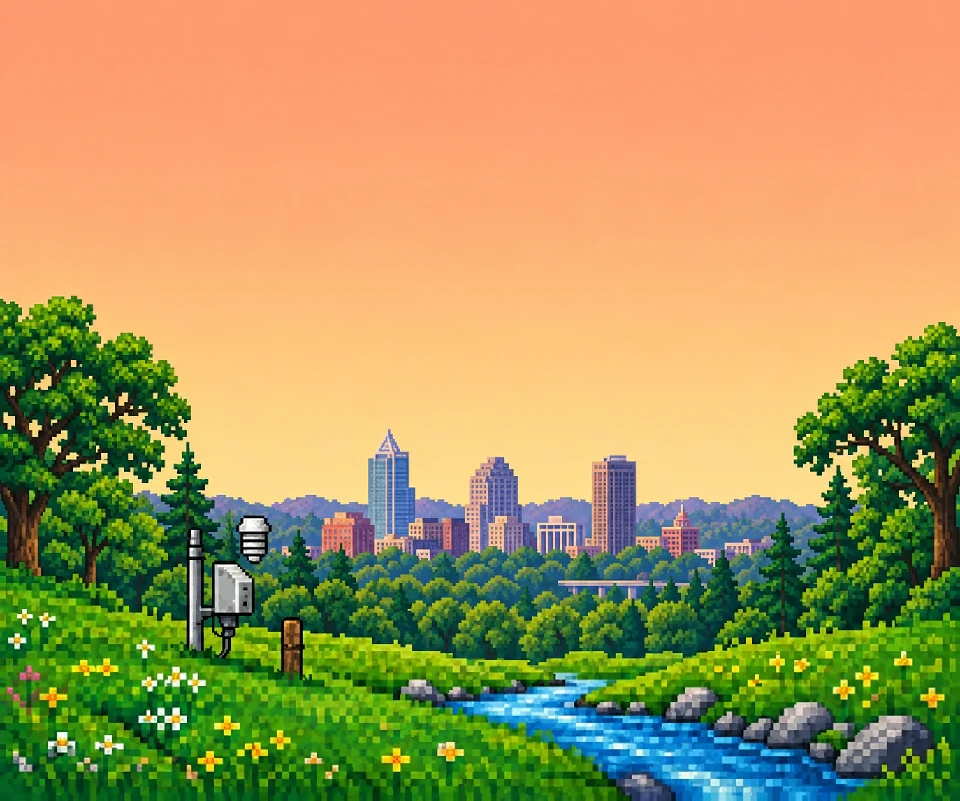
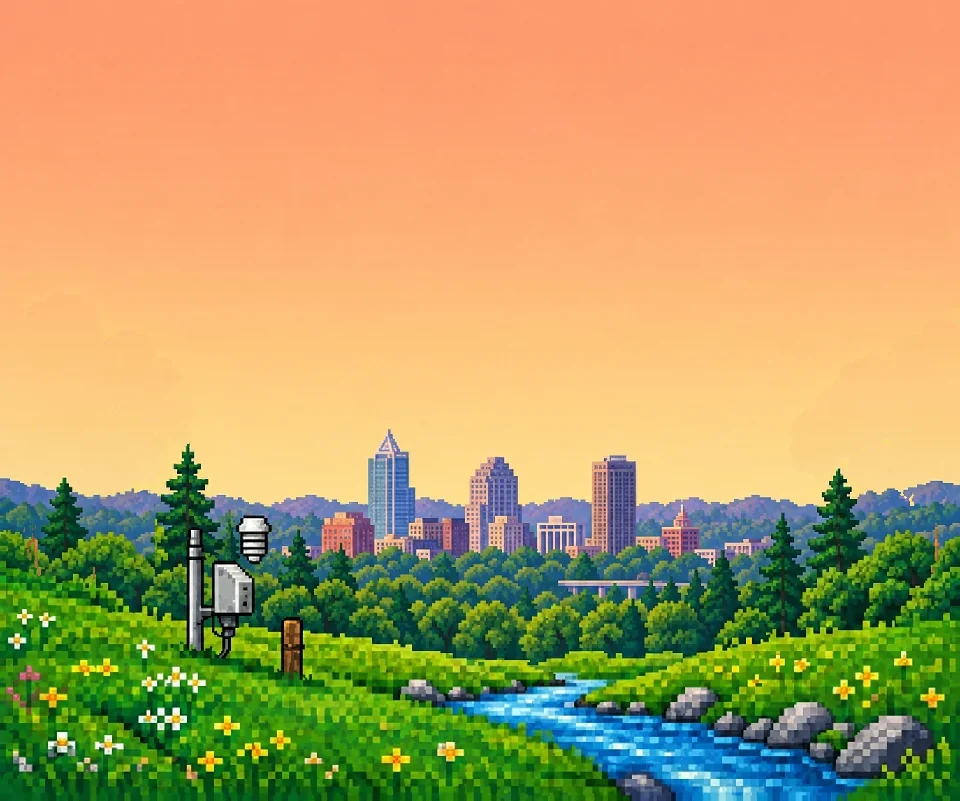
feat: add gently animated Raleigh oak sprites
Separate the original oak artwork into transparent lighting-aware sprites with sparse one-pixel foliage rustles. Bundle offline assets and preserve reduced-motion and native power controls, with browser and native coverage.

Changed region(s): [[0.0, 0.3745, 0.2188, 0.7491], [0.8125, 0.4057, 1.0, 0.7491]]

diff --git a/tests/raleigh-oaks.spec.ts b/tests/raleigh-oaks.spec.ts
@@ -1,0 +1,120 @@
+import { expect, test } from '@playwright/test';
+import type { Page } from '@playwright/test';
+import sharp from 'sharp';
+import { asheville, forecastFixture } from '../src/test/fixtures';
+
+const assets = ['left', 'right'].flatMap(side => ['day', 'overcast', 'night'].map(light => `/art/raleigh-oaks/oak-${side}-${light}.webp`));
+async function open(page: Page, code = 0, night = false) {
+  const now = Date.parse(night ? '2026-09-11T06:00:00Z' : '2026-09-11T18:00:00Z');
+  await page.clock.setFixedTime(now);
+  await page.emulateMedia({ reducedMotion: 'no-preference' });
+  await page.addInitScript(() => {
+    const place = { id: 'raleigh', name: 'Raleigh', region: 'North Carolina', country: 'United States', latitude: 35.7796, longitude: -78.6382, source: 'search' };
+    localStorage.setItem('8bit-weather:v1', JSON.stringify({ selected: place, places: [place], preferences: { units: 'imperial', reducedMotion: false } }));
+  });
+  await page.route('https://api.open-meteo.com/**', route => route.fulfill({ json: forecastFixture(now, code, night ? 0 : 1) }));
+  await page.route('**/api/weather-briefing', route => route.fulfill({ status: 503, json: { code: 'unavailable' } }));
+  await page.goto('/');
+  await expect(page.locator('.scenery')).toHaveAttribute('data-landscape', 'raleigh');
+  await expect(page.getByRole('heading', { name: '7-day forecast' })).toBeVisible();
+  await page.evaluate(async assets => Promise.all(assets.map(src => { const image = new Image(); image.src = src; return image.decode(); })), assets);
+}
+
+test('oak strips have genuine transparency, separate frame poses, and fixed roots', async () => {
+  for (const asset of assets) {
+    const image = sharp(`public${asset}`);
+    const metadata = await image.metadata();
+    expect(metadata.hasAlpha).toBe(true);
+    expect([metadata.width, metadata.height]).toEqual([1920, 320]);
+    const { data, info } = await image.ensureAlpha().raw().toBuffer({ resolveWithObject: true });
+    let transparent = 0, opaque = 0, moving = 0, rootsChanged = 0, rootAlphaChanged = 0;
+    for (let y = 0; y < 320; y++) for (let x = 0; x < 240; x++) {
+      const p = (y * info.width + x) * 4, q = (y * info.width + x + 240 * 2) * 4;
+      if (!data[p + 3]) transparent++; else opaque++;
+      const changed = Math.max(...[0, 1, 2, 3].map(c => Math.abs(data[p + c] - data[q + c]))) > 12;
+      if (changed && (data[p + 3] || data[q + 3])) { if (y < 270) moving++; else rootsChanged++; }
+      if (y >= 270 && data[p + 3] !== data[q + 3]) rootAlphaChanged++;
+    }
+    expect(transparent).toBeGreaterThan(10000); expect(opaque).toBeGreaterThan(10000);
+    expect(moving).toBeGreaterThan(1000);
+    expect(rootAlphaChanged).toBe(0);
+    // Lossy WebP color blocks can vary slightly; root geometry/alpha must remain exact.
+    expect(rootsChanged).toBeLessThan(240 * 50 * .02);
+  }
+});
+
+test('neutral oak masters preserve the original painting colors', async () => {
+  for (const light of ['day', 'overcast', 'night']) {
+    const original = await sharp(`docs/design/raleigh-v1/scene-raleigh-${light}-v1.webp`).removeAlpha().raw().toBuffer();
+    for (const [side, left] of [['left', -8], ['right', 728]] as const) {
+      const master = await sharp(`docs/design/raleigh-oaks-v1/sources/oak-${side}-${light}.png`).raw().toBuffer();
+      let mismatches = 0;
+      for (let y = 0; y < 320; y++) for (let x = 0; x < 240; x++) {
+        const p = (y * 240 + x) * 4;
+        if (!master[p + 3]) continue;
+        const q = ((y + 280) * 960 + left + x) * 3;
+        if ([0, 1, 2].some(c => master[p + c] !== original[q + c])) mismatches++;
+      }
+      expect(mismatches).toBe(0);
+    }
+  }
+});
+
+test('oak sprite frames change in place and respect motion and visibility', async ({ page }) => {
+  await open(page);
+  const errors: string[] = []; page.on('pageerror', error => errors.push(error.message));
+  await page.locator('.landscape').evaluate(n => n.getAnimations({ subtree: true }).forEach(a => { a.pause(); a.currentTime = 4000; }));
+  const oak = page.locator('.oak-left');
+  await oak.locator('.oak-frames').evaluateAll(nodes => nodes.forEach(n => n.getAnimations().forEach(a => { a.currentTime = 0; })));
+  const before = await oak.boundingBox();
+  // An edge tree is intentionally clipped. Locator screenshots auto-scroll its
+  // overflow container in Chromium; capture its visible viewport intersection instead.
+  const clip = { x: Math.max(0, before!.x), y: before!.y, width: before!.width + Math.min(0, before!.x), height: before!.height };
+  const first = await page.screenshot({ clip, animations: 'allow', scale: 'css' });
+  await oak.locator('.oak-frames').evaluateAll(nodes => nodes.forEach(n => n.getAnimations().forEach(a => { a.currentTime = Number(a.effect!.getTiming().duration) / 4; })));
+  const second = await page.screenshot({ clip, animations: 'allow', scale: 'css' });
+  expect(before).toEqual(await oak.boundingBox());
+  expect(first.equals(second)).toBe(false);
+  await page.reload();
+  const running = () => page.locator('.raleigh-oaks').evaluate(n => n.getAnimations({ subtree: true }).some(a => a.playState === 'running'));
+  await expect.poll(running).toBe(true);
+  await page.emulateMedia({ reducedMotion: 'reduce' }); await expect.poll(running).toBe(false);
+  await expect(page.locator('.oak-left .oak-frames').first()).toHaveCSS('background-position', '0px 0px');
+  await page.emulateMedia({ reducedMotion: 'no-preference' }); await expect.poll(running).toBe(true);
+  await page.evaluate(() => { Object.defineProperty(document, 'hidden', { configurable: true, value: true }); document.dispatchEvent(new Event('visibilitychange')); });
+  await expect.poll(running).toBe(false);
+  await page.evaluate(() => { Object.defineProperty(document, 'hidden', { configurable: true, value: false }); document.dispatchEvent(new Event('visibilitychange')); });
+  await expect.poll(running).toBe(true);
+  await page.setViewportSize({ width: 390, height: 400 });
+  await page.evaluate(() => window.scrollTo(0, document.body.scrollHeight));
+  await expect.poll(running).toBe(false);
+  expect(errors).toEqual([]);
+});
+
+for (const [light, code, night] of [['day', 0, false], ['overcast', 3, false], ['night', 0, true]] as const) {
+  test(`oak ${light} lighting stays registered at mobile and desktop sizes`, async ({ page, browserName }) => {
+    await open(page, code, night);
+    await expect(page.locator(`[data-oak-light='${light}']`).first()).toHaveCSS('opacity', '1');
+    for (const width of [320, 390, 430, 1280]) {
+      await page.setViewportSize({ width, height: 844 });
+      await expect(page.locator('.current-temperature')).toBeVisible();
+      await page.getByRole('button', { name: 'Blink the weather station light' }).click();
+      await expect(page.locator('.indicator-active')).toBeVisible();
+      expect(await page.evaluate(() => document.documentElement.scrollWidth <= innerWidth)).toBe(true);
+      await page.locator('.scenery').screenshot({ path: `/tmp/raleigh-oaks/${browserName}-${light}-${width}.png`, animations: 'allow', scale: 'css' });
+    }
+  });
+}
+
+test('oak assets work offline and do not appear in another region', async ({ page, context, browserName }) => {
+  test.skip(browserName !== 'chromium', 'Service-worker lifecycle is checked in Chromium.');
+  await open(page);
+  await page.evaluate(async () => { await navigator.serviceWorker.ready; });
+  await expect.poll(() => page.evaluate(async assets => (await Promise.all(assets.map(a => caches.match(a, { ignoreSearch: true })))).every(Boolean), assets)).toBe(true);
+  await context.setOffline(true); await page.reload();
+  expect(await page.evaluate(async assets => (await Promise.all(assets.map(async a => (await fetch(a)).ok))).every(Boolean), assets)).toBe(true);
+  await context.setOffline(false);
+  await page.addInitScript(place => localStorage.setItem('8bit-weather:v1', JSON.stringify({ selected: place, places: [place], preferences: { units: 'imperial' } })), asheville);
+  await page.reload(); await expect(page.locator('.scenery')).toHaveAttribute('data-landscape', 'blue-ridge');
+  await expect(page.locator('.raleigh-oaks')).toHaveCount(0);
+});

diff --git a/src/styles.css b/src/styles.css
@@ -196,6 +196,13 @@
   .river-discovery .inner-ring { opacity: .7; }
   .meadow-bird { opacity: 0; animation: bird-visit 42s steps(36, end) infinite; }
   .meadow-firefly { animation: firefly-drift 9s steps(15, end) infinite; }
+  .raleigh-oaks { position: absolute; inset: 0; pointer-events: none; }
+  .raleigh-oak { position: absolute; top: 280px; width: 240px; height: 320px; }
+  .oak-left { left: -8px; }
+  .oak-right { left: 728px; }
+  .oak-light { position: absolute; inset: 0; transition: opacity 1.8s ease; }
+  .oak-frames { width: 240px; height: 320px; background-size: 1920px 320px; background-repeat: no-repeat; image-rendering: pixelated; animation: oak-frames var(--oak-duration) steps(8, end) infinite; }
+  .oak-right .oak-frames { animation-delay: -.9s; }
   .raleigh-wildlife { position: absolute; inset: 0; pointer-events: none; filter: brightness(var(--wildlife-brightness)) saturate(var(--wildlife-saturation)); }
   .raleigh-bird-flight, .raleigh-resting-bird { position: absolute; width: 48px; height: 48px; }
   .raleigh-cardinal { --bird-image: url('/art/raleigh-wildlife/cardinal.png'); }
@@ -460,6 +467,7 @@
   @keyframes station-blink { 0%, 40%, 80% { opacity: 1; } 20%, 60% { opacity: .25; } }
   @keyframes bird-visit { 0%, 72% { opacity: 0; transform: translate(-24px, 3px); } 76% { opacity: .85; } 88% { transform: translate(60px, -18px); } 96%, 100% { opacity: 0; transform: translate(160px, -25px); } }
   @keyframes firefly-drift { 0%, 100% { transform: translate(0, 0); opacity: .25; } 35% { opacity: .9; } 60% { transform: translate(12px, -16px); opacity: .65; } }
+  @keyframes oak-frames { to { background-position-x: -1920px; } }
   /* Original sheets: birds have four 16px flying cells in row zero; leaves have five. */
   @keyframes raleigh-wing-frames { to { background-position-x: -192px; } }
   @keyframes raleigh-leaf-frames { to { background-position-x: -160px; } }
@@ -481,6 +489,8 @@
   [data-animate='false'] .art-layer, [data-animate='false'] .twilight-light { transition: none; }
   [data-animate='false'] .raleigh-bird-flight, [data-animate='false'] .raleigh-leaves { display: none; }
   [data-animate='false'] .raleigh-resting-bird { display: block; }
+  [data-animate='false'] .oak-light { transition: none; }
+  [data-animate='false'] .oak-frames, [data-calm='true'] .oak-frames { animation: none; background-position: 0 0; }
   [data-animate='false'] .river-discovery { transform: scale(1); opacity: .8; animation: none; }
   [data-animate='false'] .indicator-active { opacity: 1; animation: none; }
   .motion-reduced .meadow-bird { opacity: .75; }

diff --git a/native-tests/raleigh-wildlife.spec.ts b/native-tests/raleigh-wildlife.spec.ts
@@ -14,6 +14,8 @@ test('Raleigh sprites use the native power and lifecycle signals and bundled art
   await expect(page.locator('.scenery')).toHaveAttribute('data-landscape', 'raleigh');
   await expect(page.locator('.raleigh-resting-bird')).toBeVisible();
   await expect(page.locator('.raleigh-leaves')).toBeHidden();
+  await expect(page.locator('.oak-frames')).toHaveCount(6);
+  expect(await page.locator('.raleigh-oaks').evaluate(n => n.getAnimations({ subtree: true }).some(a => a.playState === 'running'))).toBe(false);
   expect(await page.locator('.raleigh-wildlife').evaluate(n => n.getAnimations({ subtree: true }).some(a => a.playState === 'running'))).toBe(false);
   expect(await page.evaluate(async () => {
     await Promise.all(['cardinal.png', 'blue-jay.png', 'leaves.png'].map(name => { const image = new Image(); image.src = `/art/raleigh-wildlife/${name}`; return image.decode(); }));
@@ -21,7 +23,7 @@ test('Raleigh sprites use the native power and lifecycle signals and bundled art
   })).toBe(true);
   bridge.control.lowPowerMode = false;
   await page.evaluate(() => window.__emitNative('powerStateChanged', { lowPowerMode: false, thermalState: 'nominal' }));
-  const moving = () => page.locator('.raleigh-wildlife').evaluate(n => n.getAnimations({ subtree: true }).some(a => a.playState === 'running'));
+  const moving = () => page.locator('.raleigh-wildlife,.raleigh-oaks').evaluateAll(nodes => nodes.every(n => n.getAnimations({ subtree: true }).some(a => a.playState === 'running')));
   await expect.poll(moving).toBe(true);
   await page.evaluate(() => window.__emitNative('appStateChange', { isActive: false }));
   await expect.poll(moving).toBe(false);

diff --git a/src/components/Scenery.tsx b/src/components/Scenery.tsx
@@ -9,6 +9,7 @@ import type { Landscape } from '../lib/landscapes';
 import { Stream } from './Stream';
 import { OceanSurface } from './OceanSurface';
 import { RaleighWildlife } from './RaleighWildlife';
+import { RaleighOaks } from './RaleighOaks';
 
 // All station coordinates are authored in the landscape's 960-pixel-wide grid.
 // Discrete sprite frames keep the cups upright as they circle the fixed mast.
@@ -98,6 +99,7 @@ export function Scenery({ scene, animate, onDiscover, children, className = '', 
       {(['day', 'overcast', 'night'] as const).map(art => <img key={art} className={`art-layer ${art === 'day' ? 'landscape-art' : ''}`} data-art={art}
         src={landscapeSource(landscape, art)} alt="" width={ART.width} height={ART.height} fetchPriority={art === 'day' ? 'high' : 'auto'} draggable="false"
         style={{ opacity: art === 'night' ? 1 - scene.daylight : art === 'overcast' ? wet ? 1 : 0 : 1 }} />)}
+      {landscape === 'raleigh' ? <RaleighOaks scene={scene} /> : null}
       <div className="twilight-light" />
       <svg className="landscape-details" viewBox={`0 0 ${ART.width} ${ART.height}`} shapeRendering="crispEdges">
         {definition.water.kind === 'surf' ? <OceanSurface scene={scene} discoveryId={waterDiscovery}/>

diff --git a/tests/regions.spec.ts b/tests/regions.spec.ts
@@ -66,6 +66,12 @@ for (const id of ids) {
         await page.locator('.scenery').screenshot({ path: `/tmp/8bit-weather-regions/${browserName}-${id}-${light}-${width}.png`, animations: 'allow' });
       }
       await page.setViewportSize({ width: 390, height: 844 });
+      // The weather typography now transitions on resize. Finish those finite
+      // transitions before comparing water pixels in the composited scene crop.
+      await page.locator('.scene-content').evaluate(async node => {
+        await new Promise<void>(resolve => requestAnimationFrame(() => requestAnimationFrame(() => resolve())));
+        await Promise.all(node.getAnimations({ subtree: true }).filter(a => a instanceof CSSTransition).map(a => a.finished.catch(() => {})));
+      });
       await page.evaluate(() => document.querySelector('.landscape')!.getAnimations({ subtree: true }).forEach(animation => animation.pause()));
       const phase = (time: number) => page.evaluate(time => document.querySelectorAll('.stream-current,.stream-eddy,.surf-wave,.surf-shimmer').forEach(node => node.getAnimations().forEach(animation => { animation.currentTime = time; })), time);
       await phase(400);

diff --git a/src/components/RaleighOaks.tsx b/src/components/RaleighOaks.tsx
@@ -1,0 +1,16 @@
+import type { CSSProperties } from 'react';
+import type { SceneState } from '../types';
+
+const lights = ['day', 'overcast', 'night'] as const;
+
+export function RaleighOaks({ scene }: { scene: SceneState }) {
+  const overcast = ['cloudy', 'fog', 'rain', 'snow', 'storm'].includes(scene.kind);
+  return <div className="raleigh-oaks" aria-hidden="true" style={{ '--oak-duration': `${8 - scene.windStrength * 2}s` } as CSSProperties}>
+    {(['left', 'right'] as const).map(side => <div className={`raleigh-oak oak-${side}`} key={side}>
+      {lights.map(light => <div className="oak-light" data-oak-light={light} key={light}
+        style={{ opacity: light === 'night' ? 1 - scene.daylight : light === 'overcast' ? Number(overcast) : 1 }}>
+        <div className="oak-frames" style={{ backgroundImage: `url('/art/raleigh-oaks/oak-${side}-${light}.webp')` }} />
+      </div>)}
+    </div>)}
+  </div>;
+}

diff --git a/docs/design/raleigh-oaks-v1/prompts.md b/docs/design/raleigh-oaks-v1/prompts.md
@@ -1,0 +1,32 @@
+# Raleigh oak artwork prompts
+
+Built-in Imagegen; no API-key or CLI image generation was used.
+
+## Tree extraction
+
+Use case: background-extraction.
+Asset type: an actual transparent PNG sprite layer for the existing Raleigh pixel-art weather scene.
+Edit target: the supplied 960x801 landscape.
+Extract ONLY the two large foreground oak trees at the far left and far right, including their leafy crowns, branches and trunks. Preserve the trees' exact original screen positions, scale, silhouettes, detailed crisp square-pixel texture and warm daylight colors. Keep the same 6:5 canvas/aspect and framing: left oak canopy begins around y=295, its trunk ends near y=580; right oak canopy begins around y=323 and trunk ends near y=580. These edge trees remain cropped by the outside canvas edges exactly as in the input. This is one transparent sprite atlas containing the separated left and right oak silhouettes in their original layout, NOT a new scene.
+Remove ALL sky, skyline, hills, distant trees, smaller foreground pines, grass, flowers, ground, creek, station, wooden marker and other objects. The full space between and around the two foreground oak silhouettes must be genuine transparent alpha, including gaps between branches and leaves. No ground under roots. Do not fill the alpha with black, white, a gradient, or a drawn checkerboard.
+Do not redraw or redesign the two oak trees. Preserve the source tree appearance as closely as possible. No added trees, no objects, text, labels, outlines, shadows or mockup framing. The output must be the actual transparent game sprite layer, ready to overlay on a separately restored background.
+
+## Alpha retry (returned painted checkerboard; not usable as alpha)
+
+Remove the gray checkerboard from this tree cutout image. Return a PNG with a real transparent alpha channel; all background pixels must have alpha 0. This image currently has a painted checkerboard, which is incorrect. Preserve only the two green pixel-art oak trees with their brown trunks. Preserve every existing tree pixel, position, scale, and canvas dimensions. Make the gaps among branches transparent too. Do not render a transparency checkerboard. Do not replace the background with a visible color. The result must be an actual transparent PNG ready for use as a game sprite.
+
+## Clean daylight background
+
+Use case: precise-object-edit.
+Asset: clean background plate for a layered pixel-art game scene.
+Edit target: the supplied original Raleigh landscape.
+Remove ONLY the two LARGE FOREGROUND OAK TREES at the extreme left and right edges: their large leafy crowns, branches, and thick brown trunks. The left oak occupies approximately x=0..192,y=292..582 on the 960x801 source; the right oak occupies x=790..960,y=322..590. Reconstruct the empty warm sky and distant wooded parkland that would naturally be visible behind those trees. Where a trunk meets the ground, restore the grass behind it.
+Preserve all other artwork, positions, colors, scale, sharp pixel texture and exact 6:5 framing. Do not change any pixels outside the removed oaks' regions. In particular keep the smaller dark pine near the station, all existing smaller midground trees, the Raleigh skyline, meadow flowers, station and bare mast, wooden stake, and ALL creek water, banks and rocks exactly where they are. The upper 35 percent and central 60 percent must remain identical to the source. No new objects. No changes to lighting. No softening, blur, clouds, birds, text, or UI. Output a fully opaque background at the original aspect, edge to edge. This is the empty-background companion to transparent oak sprites that will be composited back into their original places.
+
+## Clean overcast background
+
+Remove ONLY the two large foreground oak trees at the extreme left and right of this overcast Raleigh pixel-art landscape. Remove their crowns, branches and thick trunks and restore pale blue-gray sky, distant forest, small pines and meadow behind them. Left oak region x=0..193,y=295..590 and right oak x=790..960,y=320..590 on the 960x801 canvas. Keep smaller pine by the weather station. Preserve all other objects, exact positions and original cool overcast palette and sharp pixel texture. Preserve station, skyline, flowers and creek geometry exactly. No added objects, text, birds, clouds, change of lighting or camera. Same 6:5 canvas aspect. Fully opaque clean background plate for compositing separate oak sprites back on top.
+
+## Clean night background
+
+Remove ONLY the two large foreground oak trees at the extreme left and right of this nighttime Raleigh pixel-art landscape. Remove their crowns, branches and thick trunks and restore indigo-purple sky, distant forest, small pines and meadow behind them. Left oak region x=0..193,y=295..590 and right oak x=790..960,y=320..590 on the 960x801 canvas. Keep smaller pine by the weather station. Preserve all other objects, exact positions and original dark blue/teal/violet night palette and sharp pixel texture. Preserve station, lit skyline, flowers and creek geometry exactly. No added objects, text, birds, clouds, change of lighting or camera. Same 6:5 canvas aspect. Fully opaque clean background plate for compositing separate oak sprites back on top.

diff --git a/docs/design/raleigh-oaks-v1/README.md b/docs/design/raleigh-oaks-v1/README.md
@@ -1,0 +1,48 @@
+# Raleigh oak sprites
+
+The two foreground oaks are now independent raster assets with genuine alpha,
+eight discrete poses, and day/overcast/night palettes. `RaleighOaks.tsx` plays
+the strips in the shared 960×801 scene, before the weather station and wildlife.
+Trunks and branches stay fixed; five or six foliage clusters per tree move in
+staggered pixel steps over a shaded inner canopy. These are prepared raster animation frames, not a transform applied to
+the entire background. The poses are prepared by deterministic pixel processing, rather than newly
+hand-drawn tree artwork.
+
+## Reusable files
+
+- Transparent PNG masters: `sources/oak-{left|right}-{day|overcast|night}.png`.
+- Runtime strips: `public/art/raleigh-oaks/oak-{left|right}-{day|overcast|night}.webp`.
+- Each pose is 240×320 pixels; each horizontal strip has eight poses (1920×320),
+  with transparent frame padding to prevent bleed during scene scaling.
+- Stage placements: left `(-8,280)`, right `(728,280)`. Original edge clipping is
+  intentional; these are the scene's two edge oaks, not full freestanding trees.
+- The atlas metadata is in `public/art/raleigh-oaks/atlas.json`.
+
+The existing runtime Raleigh plate paths now contain repaired backgrounds with
+the foreground oaks removed. Original opaque paintings remain unchanged in
+`docs/design/raleigh-v1/`. Only the edge regions were composited from the new
+background repairs; the skyline, station and creek geometry is retained.
+The foreground PNG masters use original painting pixels in each lighting state.
+A day-image color mask separates the warm sky from the edge trees; the lower
+edge cutouts include stationary foliage where the oaks meet the midground.
+
+## Preparation
+
+The initial Imagegen tree extraction was rejected visually. Imagegen also
+reconstructed hidden scenery, which is retained only behind the tree masks. Its alpha
+requests twice returned an opaque painted checkerboard. With the user's explicit
+permission, deterministic image processing removed neutral checkerboard pixels,
+exported real RGBA PNGs. The revised pipeline segments the original painting
+directly, preserves its three lighting palettes, and bakes eight foliage poses. The supplied bird pack was never processed by Imagegen
+or this script. Original prompts and generated source files are retained here.
+
+Rebuild with `node scripts/build-raleigh-oaks.mjs` (existing Sharp dependency).
+Runtime WebP strips retain alpha and use quality 80 to fit the existing 3 MB
+offline budget; PNG masters preserve the prepared pixels losslessly.
+
+The loop takes eight seconds in gentle wind and six seconds at maximum illustrated
+wind strength. Upper leaf clusters move only one source pixel horizontally in
+two staggered poses; six of the eight poses are neutral. Lower foliage, trunks
+and branches remain still. Left/right phases differ; all lighting layers within a tree stay
+synchronized. Calm, reduced-motion, power-saving, hidden and offscreen states use
+the neutral pose. Palette layers blend with the existing scene lighting.

diff --git a/docs/design/raleigh-v1/README.md b/docs/design/raleigh-v1/README.md
@@ -1,5 +1,9 @@
 # Raleigh scene — version 1
 
+The files in this design folder preserve the original flat paintings. The runtime
+plates in `public/art` now have their edge oaks removed and are paired with
+[separate animated oak sprites](../raleigh-oaks-v1/README.md).
+
 Created September 8, 2026 with the built-in Imagegen tool, using the original meadow daylight plate as the visual and composition reference. The app uses this artwork for selected locations within 25 km of central Raleigh, including nearby GPS fixes. Other locations use the original meadow. Delivery copies live in `public/art` and are available offline.
 
 The scene combines a downtown Raleigh skyline, mature oaks, low wooded Piedmont terrain, and a creek foreground. It is an illustrative Raleigh composite, not a literal view from one location. The regional direction draws from [Dix Park's oaks, meadows, and skyline views](https://dorotheadixpark.org/about) and [Raleigh's Walnut Creek greenway](https://raleighnc.gov/parks-and-recreation/places/walnut-creek-greenway-trail). No third-party photographs are incorporated.

diff --git a/docs/design/raleigh-v1/wildlife.md b/docs/design/raleigh-v1/wildlife.md
@@ -1,6 +1,7 @@
 # Raleigh wildlife
 
-The Raleigh painting, water, and oak canopies retain their original artwork.
+The first wildlife pass retained the Raleigh painting and water. The oak canopies
+have since become [separate animated sprites](../raleigh-oaks-v1/README.md).
 The ambient bird and leaf layers use the free [Garden Birds pack by Pop Shop
 Packs](https://pop-shop-packs.itch.io/garden-birds-pixel-character-asset-pack)
 and [Windy Leaves by EdgeLoopRepeat](https://rs-pixel-store.itch.io/falling-leaf-fx).
